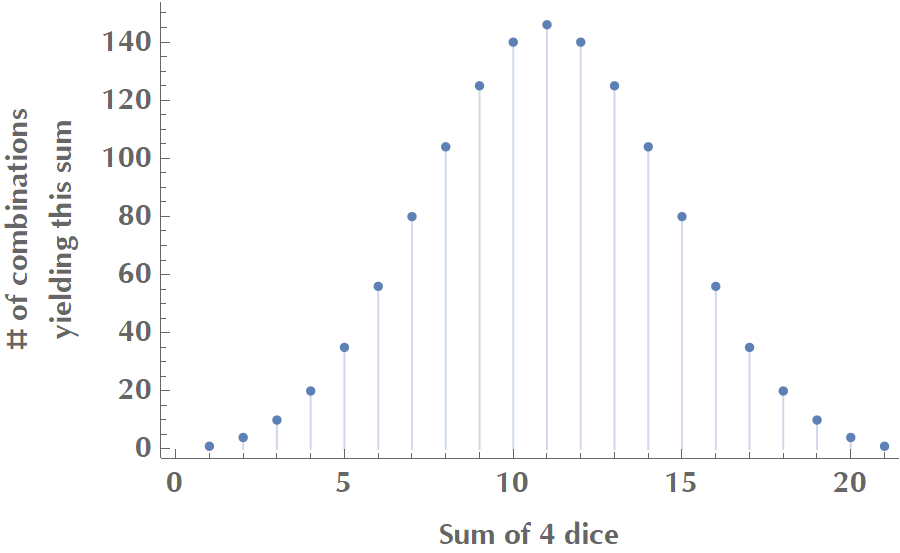
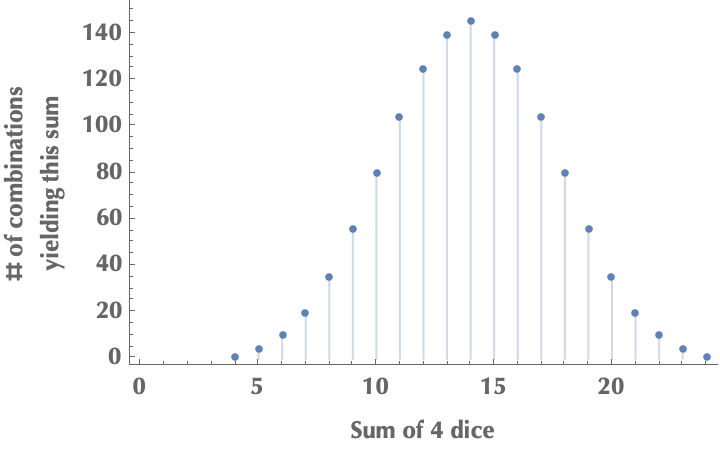
Fix some errors in normal dist blog post by Alexander Nordin

diff --git a/_posts/2021-01-29-why-is-normal-distribution-so-ubiquitous.md b/_posts/2021-01-29-why-is-normal-distribution-so-ubiquitous.md
@@ -13,6 +13,8 @@ description: A summary of explanations and insights on why the normal distributi
 * A markdown unordered list which will be replaced with the ToC, excluding the "Contents header" from above
 {:toc}
 
+*Many thanks to Alexander Nordin for spotting some errors in the combinations of four dice and being kind enough to let me know.*
+
 ## Introduction
 Have you ever wondered why [normal distributions](https://en.wikipedia.org/wiki/Normal_distribution) are encountered so frequently in everyday life? Some examples include the height of people, newborns' birth weight, the sum of two dice, and numerous others. Also, in statistical modeling, we often assume that some quantity is represented by a normal distribution. Particularly when we don't know the actual distribution, but we do know the sample mean and standard deviation. It is as if Gaussian is the "default" or the most generic. Is there some fundamental reason Gaussians are all over the place? Yes, there is!
 
@@ -73,13 +75,13 @@ If we keep going by throwing more dice, say 4 at a time, the sums' distribution 
  <img style="width: 50%; height: 50%" src="{{ site.url }}/images/normal_dist/combinations.png" alt="Sum of dice plot">
 </p>
 
-So here are the 146 combinations of dice values that sum to 11.
+So here are the 104 combinations of dice values that sum to 11.
 
 <p align="center">
  <img style="width: 100%; height: 100%" src="{{ site.url }}/images/normal_dist/raster_combinations.png" alt="Sum of dice plot">
 </p>
 
-In the following histograms, we examine the sums' distributions, starting with only one die and going up to 20 dice! By rolling merely three dice, the sum already looks pretty normally distributed. 
+In the following histograms, we examine the sums' distributions, starting with only one die and going up to 20 dice! By rolling merely three dice, the sum already looks pretty normally distributed.
 
 <p align="center">
  <img style="width: 100%; height: 100%" src="{{ site.url }}/images/normal_dist/hist_of_sum.png" alt="Sum of dice histogram">
@@ -102,14 +104,14 @@ randomWalks[reps_, steps_] :=
  Module[{},
   Table[
    Accumulate[
-    Flatten@Append[{0}, 
+    Flatten@Append[{0},
       RandomVariate[UniformDistribution[{-1, 1}], steps]]],
    {k, reps}]
   ]
 
 Show[
  ListPlot[walks, Joined -> True, PlotStyle -> Directive[Blue, Opacity[0.02]],
-  AspectRatio -> 1/3, Frame -> {True, True, True, True}, FrameLabel -> {"Steps", "Position"}, 
+  AspectRatio -> 1/3, Frame -> {True, True, True, True}, FrameLabel -> {"Steps", "Position"},
   FrameTicksStyle -> Directive[Bold], FrameTicks -> {{{-6, -3, 0, 3, 6}, None},
    {{0, 4, 8, 16, 32}, None}},
   GridLines -> {{4, 8, 16, 32}, None}, GridLinesStyle -> Dashed, ImageSize -> Large],
@@ -117,7 +119,7 @@ Show[
  {% endraw %}
 {% endhighlight %}
 
-These are the distributions of the positions (distances) after 4, 8, and 16 steps. Notice how the distribution converges on a Gaussian (the red one) as the number of steps increases. 
+These are the distributions of the positions (distances) after 4, 8, and 16 steps. Notice how the distribution converges on a Gaussian (the red one) as the number of steps increases.
 
 <p align="center">
  <img style="width: 100%; height: 100%" src="{{ site.url }}/images/normal_dist/hist_vs_steps.png" alt="Random walk">
@@ -173,7 +175,7 @@ fg[f_, g_] := Convolve[f, g, x, y] /. y -> x
 repconv[n_] := repconv[n] = Nest[fg[#, #] &, f0[x], n]
 Grid[
  Partition[#, 2] &@
-  (Plot[#, {x, -3, 3}, Exclusions -> None, Filling -> Axis] & /@ 
+  (Plot[#, {x, -3, 3}, Exclusions -> None, Filling -> Axis] & /@
     Table[repconv[k], {k, 0, 3}])
  ]
 {% endraw %}
@@ -296,7 +298,7 @@ $$
 p_i = \frac{1}{b-a+1}
 $$
 
-So basically, this case is a generalization of the previous. For $$a=0, b=1$$, we get the probability of the fair coin. 
+So basically, this case is a generalization of the previous. For $$a=0, b=1$$, we get the probability of the fair coin.
 
 [Edwin Thompson Jaynes](https://en.wikipedia.org/wiki/Edwin_Thompson_Jaynes) put it very beautifully that the max entropy distribution is *"uniquely determined as the one which is maximally noncommittal with regard to missing information, in that it agrees with what is known, but expresses maximum uncertainty with respect to all other matters".* Therefore, this is the most principled choice. Here is a list of probability distributions and their corresponding maximum entropy constraints, taken from Wikipedia.
 
